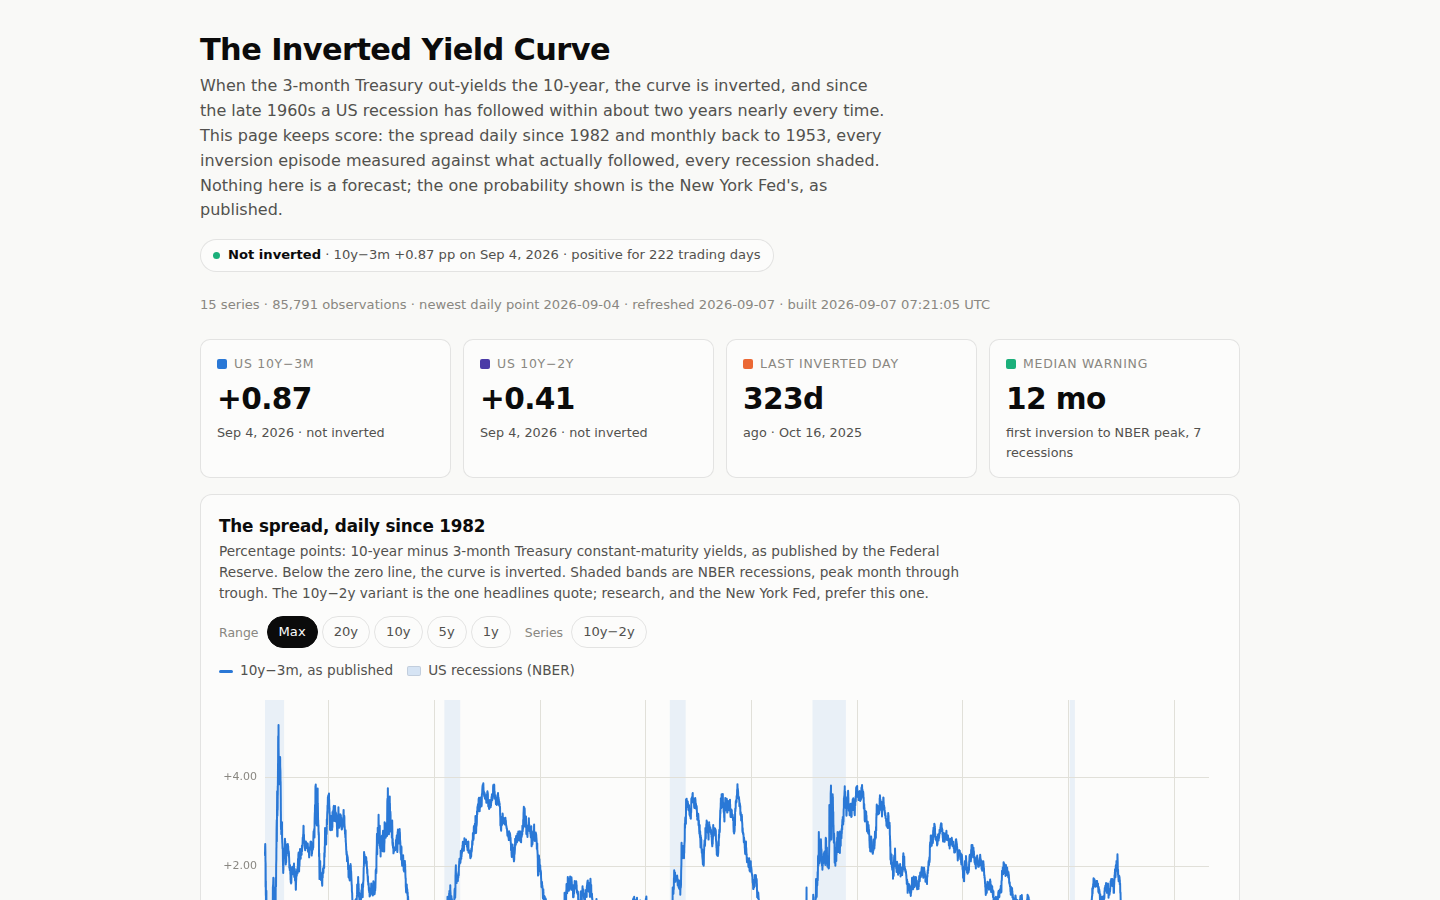
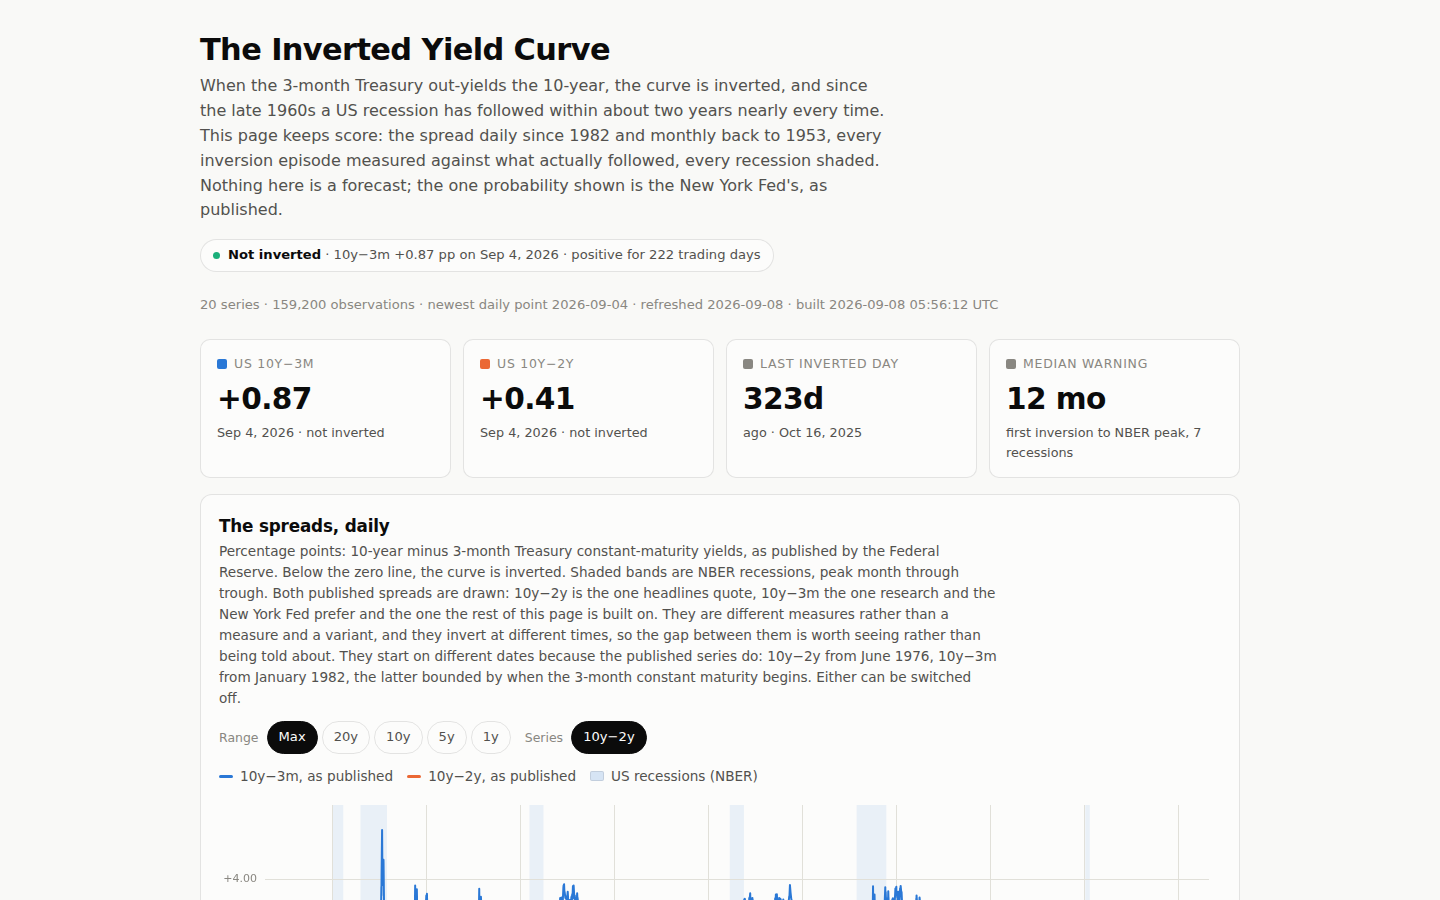
yield: tile swatches match the lines they name
A swatch beside a tile is a claim: this colour is that series on the charts
below. Two of the four tiles were breaking it. The 10y−2y tile wore
--series-4 while its line is drawn in --series-2, so the one tile a reader
might use to find that line pointed at the wrong colour.

The other two tiles are not series at all. "Last inverted day" is a count of
days and "Median warning" is a statistic over episodes; neither has a line
anywhere on the page, so each was borrowing a series colour it does not own
and implying a chart entry that does not exist. Both now wear muted ink,
which is what a figure with no line should look like.

Screenshots refreshed to match.

Generated with [Claude Code](https://claude.ai/code)
via [Happy](https://happy.engineering)

diff --git a/src/index.html b/src/index.html
@@ -659,12 +659,21 @@ tr.open td { font-weight: 650; }
       ctx.beginPath(); ctx.moveTo(g.left, Math.round(Y(0)) + 0.5); ctx.lineTo(g.right, Math.round(Y(0)) + 0.5); ctx.stroke();
     }
 
-    // x ticks: years, thinned by span
+    // x ticks: years, thinned by how many labels actually fit. Thinning by
+    // span alone was fine while every chart opened at Max, but a 20-year range
+    // on a 390px phone wants the same step as a 60-year range on a desktop,
+    // and the old thresholds gave it ten labels in three hundred pixels.
     ctx.textAlign = "center"; ctx.textBaseline = "top";
     var firstYear = new Date(x0).getUTCFullYear();
     var lastYear = new Date(x1).getUTCFullYear();
     var years = lastYear - firstYear;
-    var stepY = years > 60 ? 10 : years > 30 ? 5 : years > 12 ? 2 : 1;
+    var fits = Math.max(2, Math.floor((g.right - g.left) / 46));
+    var stepY = 1;
+    var steps = [1, 2, 5, 10, 20, 25, 50, 100];
+    for (var si = 0; si < steps.length; si++) {
+      stepY = steps[si];
+      if (years / stepY <= fits) break;
+    }
     for (var yr = Math.ceil(firstYear / stepY) * stepY; yr <= lastYear; yr += stepY) {
       var t = Date.UTC(yr, 0, 1);
       if (t < x0 || t > x1) continue;
@@ -995,18 +1004,21 @@ tr.open td { font-weight: 650; }
     if (s3) t.push({ label: "US 10y−3m", color: "var(--series-1)",
                      value: fmtPp(s3.latest[1]),
                      note: dayWord(s3.latest[0]) + " · " + (s3.inverted ? "inverted" : "not inverted") });
-    if (s2) t.push({ label: "US 10y−2y", color: "var(--series-4)",
+    // A tile swatch means "this is that line's colour on the charts", so the
+    // two spread tiles track their series and the derived tiles below wear
+    // muted ink rather than borrowing a series colour they do not own.
+    if (s2) t.push({ label: "US 10y−2y", color: "var(--series-2)",
                      value: fmtPp(s2.latest[1]),
                      note: dayWord(s2.latest[0]) + " · " + (s2.inverted ? "inverted" : "not inverted") });
     if (s3 && s3.last_negative) {
       var days = Math.round((ms(s3.latest[0]) - ms(s3.last_negative)) / 86400000);
-      t.push({ label: "Last inverted day", color: "var(--series-2)",
+      t.push({ label: "Last inverted day", color: "var(--muted)",
                value: String(days) + "d",
                note: "ago · " + dayWord(s3.last_negative) });
     }
     var stats = (an.episodes || {}).stats;
     if (stats && stats.median_lead_months !== undefined) {
-      t.push({ label: "Median warning", color: "var(--series-3)",
+      t.push({ label: "Median warning", color: "var(--muted)",
                value: stats.median_lead_months + " mo",
                note: "first inversion to NBER peak, " + stats.credited_episodes + " recessions" });
     }
